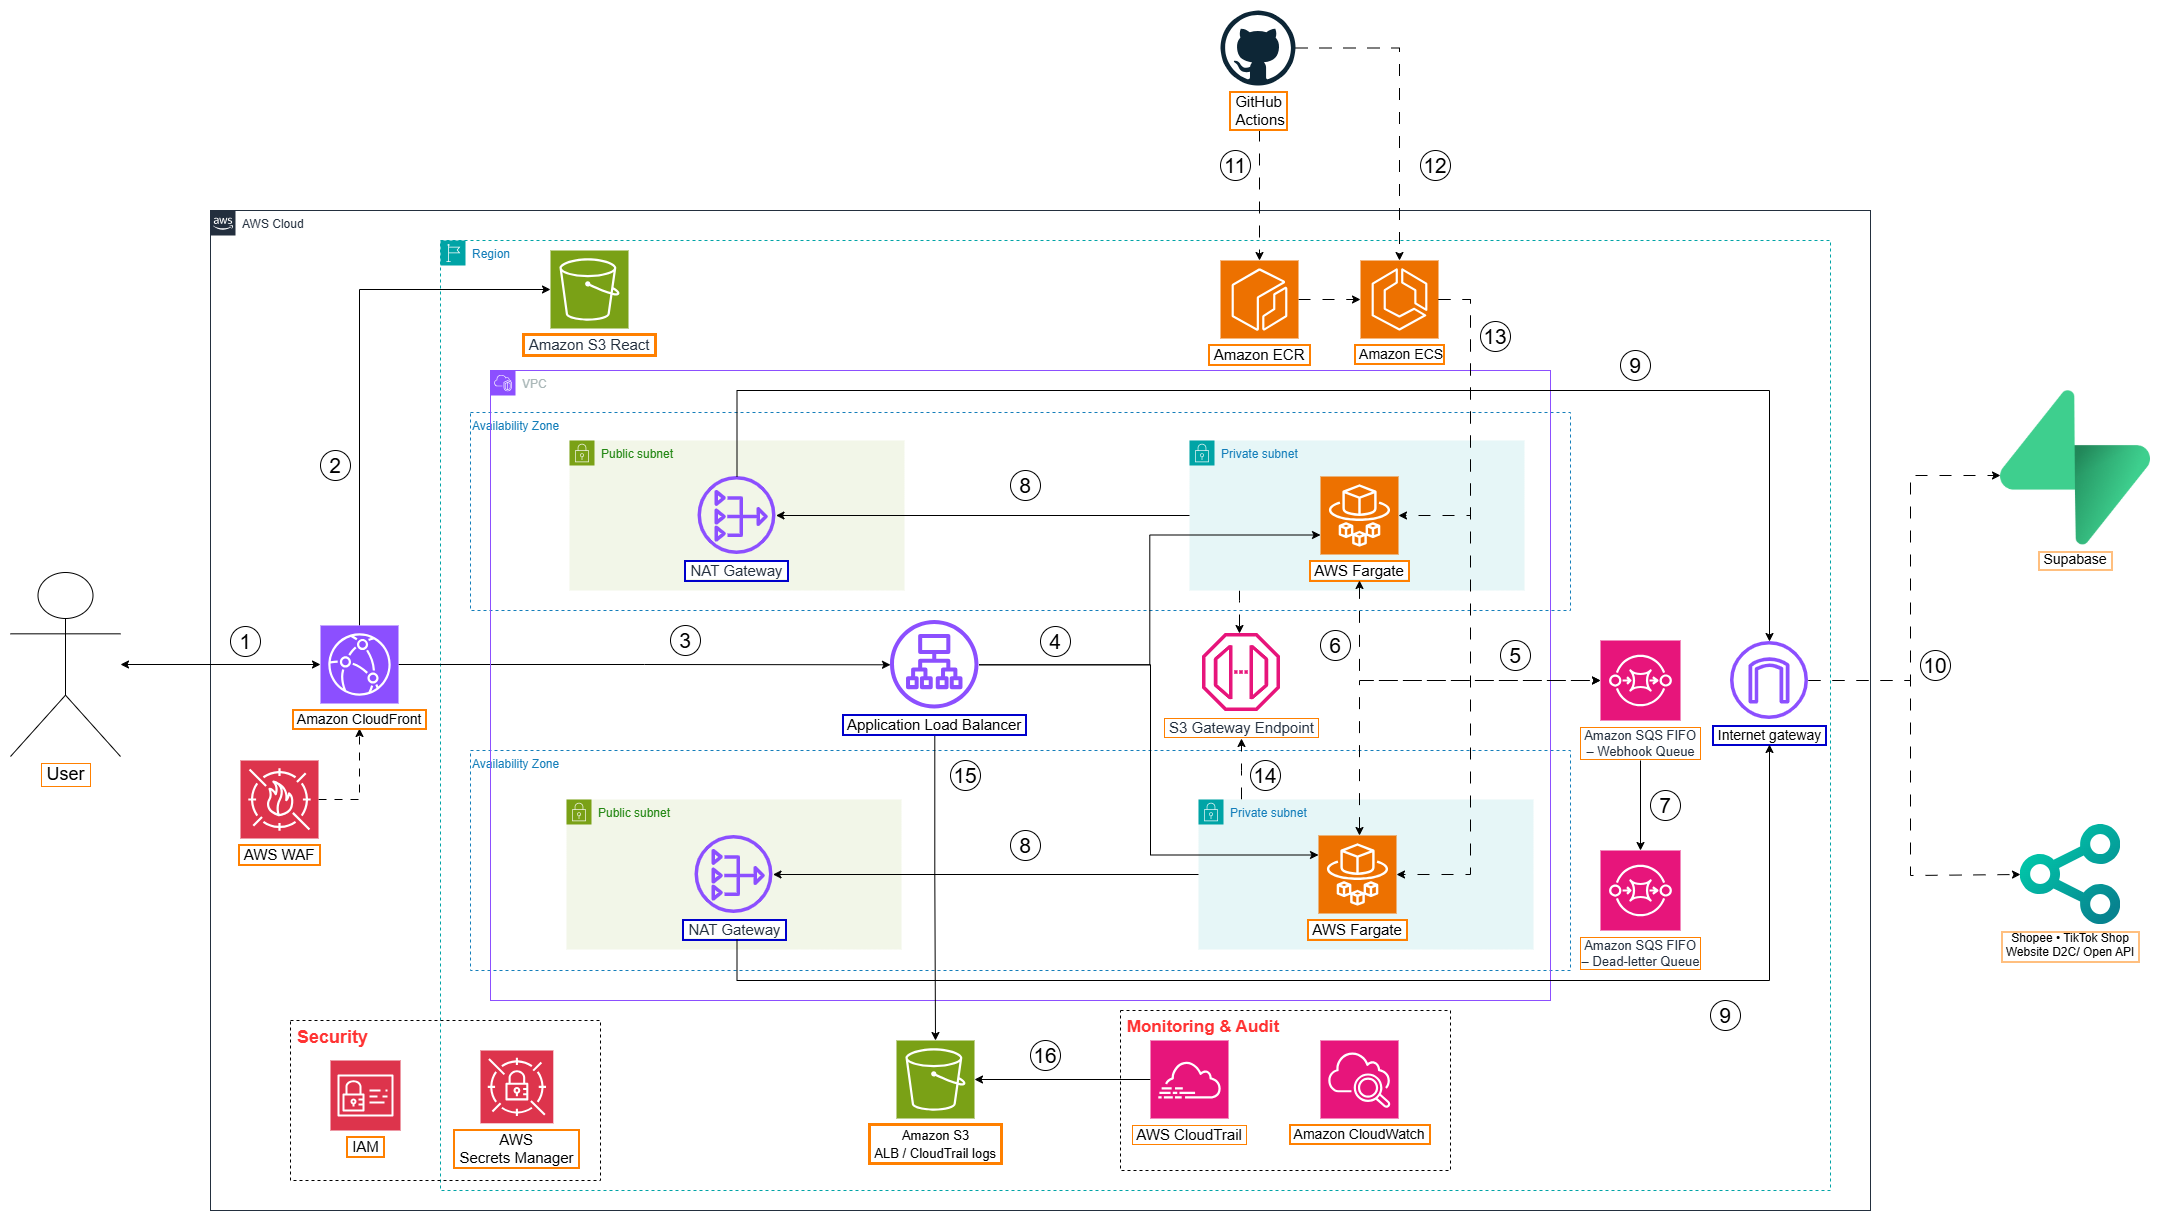
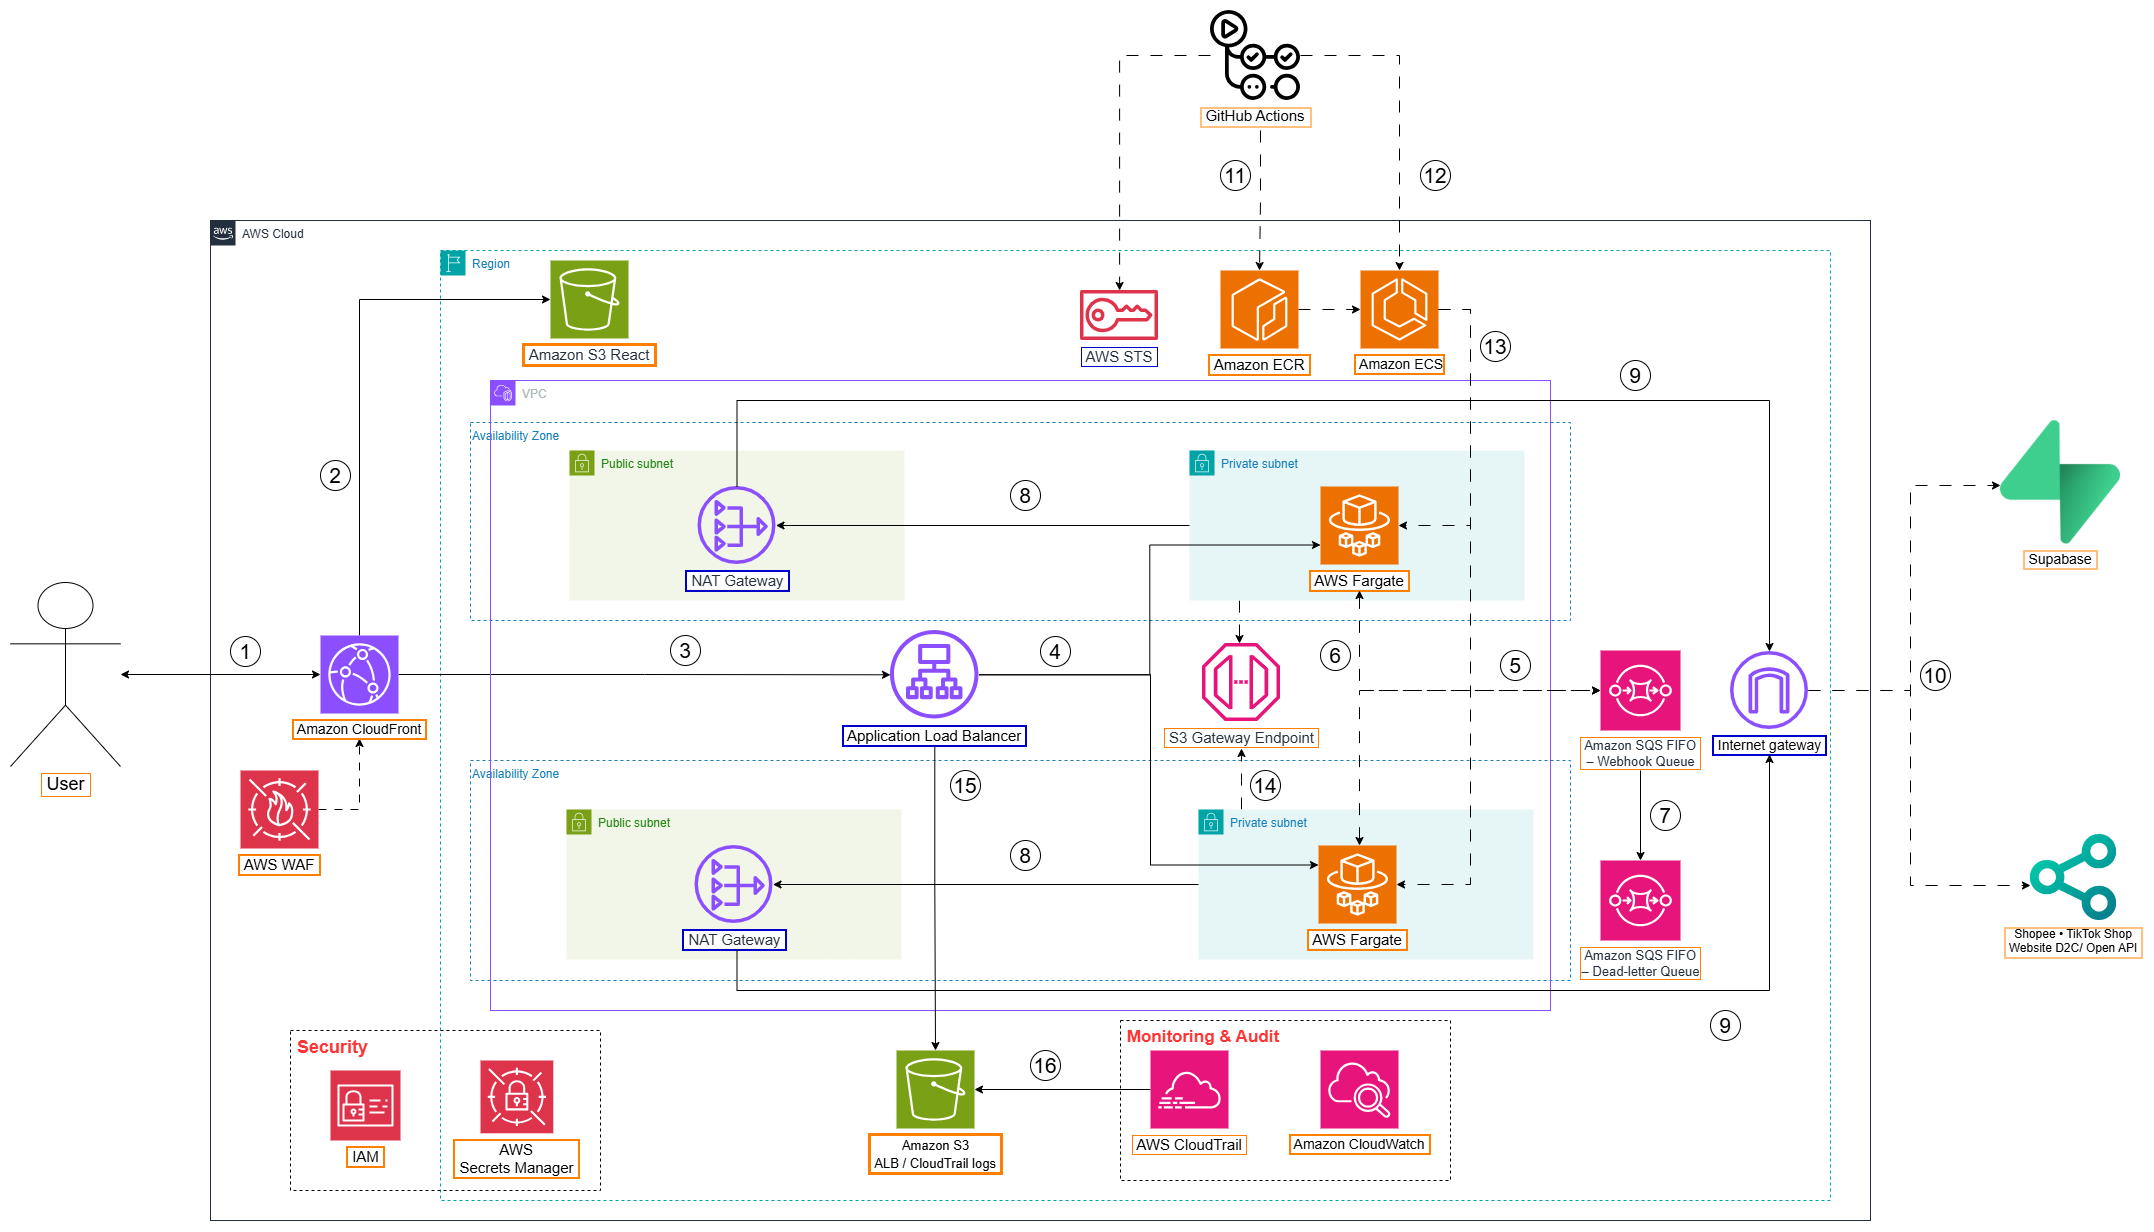
Clarify GitHub OIDC authentication flow
Document AWS STS token validation and temporary credentials in the proposal and workshop guides, update the architecture diagram, and add assumed-role verification to the Vietnamese deployment workflow example.

diff --git a/fcj-workshop-thanh-binh/content/2-Proposal/_index.vi.md b/fcj-workshop-thanh-binh/content/2-Proposal/_index.vi.md
@@ -52,12 +52,15 @@ Hệ thống tạo một góc nhìn vận hành thống nhất cho sản phẩm,
 | 15 | ALB ghi access log vào S3 audit bucket. |
 | 16 | CloudTrail ghi management event vào S3 audit bucket. |
 
+Đường nét đứt GitHub Actions → AWS STS thể hiện bước xác thực OIDC của CI/CD nên không đánh số trong luồng nghiệp vụ.
+
 *Dịch vụ AWS sử dụng*  
 - *Amazon S3 và Amazon CloudFront*: Lưu trữ và phân phối React/Vite build tĩnh.  
 - *AWS WAF*: Bảo vệ ứng dụng trước các request độc hại phổ biến.
 - *Application Load Balancer*: Định tuyến API tới ECS task khỏe.  
 - *Amazon ECS trên AWS Fargate*: Chạy container .NET 10 qua hai Availability Zone.  
 - *Amazon ECR*: Lưu Docker image backend có phiên bản từ GitHub CI.  
+- *AWS STS*: Xác thực GitHub OIDC token và cấp credential tạm thời cho GitHub Actions.
 - *Amazon SQS FIFO và Dead-letter Queue*: Đệm webhook tăng đột biến, giữ thứ tự theo nhóm và cô lập message xử lý lỗi.
 - *Amazon VPC, NAT Gateway và Internet Gateway*: Cô lập API task trong private subnet nhưng vẫn cho phép outbound có kiểm soát.  
 - *S3 Gateway Endpoint, AWS Secrets Manager và Amazon CloudWatch*: Định tuyến S3 riêng tư, quản lý secret và thu log/metric; ECR, Secrets Manager và CloudWatch Logs được truy cập qua NAT Gateway.  
@@ -72,7 +75,7 @@ Hệ thống tạo một góc nhìn vận hành thống nhất cho sản phẩm,
 - *Luồng hủy đơn*: Sự kiện `order.cancelled` cập nhật trạng thái, lưu lý do hủy và nhả tồn đang giữ nếu đơn chưa xuất kho. Idempotency ngăn việc hoàn tồn hai lần.
 - *Database và identity*: Supabase cung cấp PostgreSQL/Auth; dữ liệu nằm trong `public` schema của một tổ chức.  
 - *AWS runtime*: ECS task lấy secret an toàn, gửi log đến CloudWatch, đọc/ghi SQS bằng task role và đi ra Supabase/marketplace simulator qua NAT Gateway.
-- *CI/CD*: GitHub Actions dùng OIDC để nhận AWS credential ngắn hạn, đẩy image lên ECR, cập nhật ECS service, đồng bộ frontend lên S3 và tạo CloudFront invalidation.
+- *CI/CD*: GitHub Actions dùng OIDC để gọi AWS STS, nhận credential tạm thời, đẩy image lên ECR, cập nhật ECS service, đồng bộ frontend lên S3 và tạo CloudFront invalidation.
 
 ### 4. Triển khai kỹ thuật  
 *Các giai đoạn triển khai*  

diff --git a/fcj-workshop-thanh-binh/content/2-Proposal/_index.md b/fcj-workshop-thanh-binh/content/2-Proposal/_index.md
@@ -52,12 +52,15 @@ The current application runs locally with React/Vite, a .NET 10 API and Supabase
 | 15 | The ALB writes access logs to the S3 audit bucket. |
 | 16 | CloudTrail writes management events to the S3 audit bucket. |
 
+The unnumbered dashed line from GitHub Actions to AWS STS represents CI/CD OIDC authentication rather than a business flow.
+
 ### AWS Services Used
 - **Amazon S3 and Amazon CloudFront**: Store and distribute the static React/Vite build.
 - **AWS WAF**: Protects the application from common malicious requests.
 - **Application Load Balancer**: Routes API traffic to healthy ECS tasks.
 - **Amazon ECS on AWS Fargate**: Runs the containerized .NET 10 API across two Availability Zones.
 - **Amazon ECR**: Stores versioned backend container images built from GitHub CI.
+- **AWS STS**: Validates the GitHub OIDC token and issues temporary credentials to GitHub Actions.
 - **Amazon SQS FIFO and a dead-letter queue**: Buffer webhook bursts, preserve ordering within a message group, and isolate failed messages.
 - **Amazon VPC, NAT Gateway and Internet Gateway**: Isolate API tasks in private subnets while allowing controlled outbound access.
 - **S3 Gateway Endpoint, AWS Secrets Manager and Amazon CloudWatch**: Route S3 traffic privately, manage secrets and collect logs/metrics; ECR, Secrets Manager and CloudWatch Logs are reached through NAT Gateways.
@@ -72,7 +75,7 @@ The current application runs locally with React/Vite, a .NET 10 API and Supabase
 - **Order cancellation workflow**: An `order.cancelled` event records the reason, changes the order state, and releases reserved inventory when the order has not been dispatched. Idempotency prevents stock from being released twice.
 - **Database and identity**: Supabase provides PostgreSQL and Auth; the database uses a single-organization `public` schema.
 - **AWS runtime**: ECS tasks obtain secrets safely, send logs to CloudWatch, access SQS through the task role, and reach Supabase/marketplace simulators through NAT Gateways.
-- **CI/CD**: GitHub Actions uses OIDC for short-lived AWS credentials, pushes images to ECR, updates the ECS service, syncs the frontend to S3, and creates a CloudFront invalidation.
+- **CI/CD**: GitHub Actions uses OIDC to call AWS STS, receives temporary credentials, pushes images to ECR, updates the ECS service, syncs the frontend to S3, and creates a CloudFront invalidation.
 
 ### 4. Technical Implementation
 **Implementation Phases**

diff --git a/fcj-workshop-thanh-binh/content/5-Workshop/5.5-CICD/_index.vi.md b/fcj-workshop-thanh-binh/content/5-Workshop/5.5-CICD/_index.vi.md
@@ -22,7 +22,7 @@ Audience: sts.amazonaws.com
 
 ![Cấu hình GitHub OIDC provider](/images/5-Workshop/nexusoms/5.5-CICD/github-actions/2-configure-github-oidc-provider.png)
 
-
+AWS STS kiểm tra OIDC token theo trust policy của IAM role. Nếu `aud` và `sub` hợp lệ, STS trả về credential tạm thời cho workflow. Không tạo tài nguyên STS riêng.
 
 ## 2. Tạo IAM role cho GitHub Actions
 
@@ -324,6 +324,9 @@ jobs:
           role-to-assume: ${{ secrets.AWS_ROLE_TO_ASSUME }}
           aws-region: ${{ vars.AWS_REGION }}
 
+      - name: Verify assumed AWS role
+        run: aws sts get-caller-identity
+
       - name: Login to Amazon ECR
         id: login-ecr
         uses: aws-actions/amazon-ecr-login@v2
@@ -470,6 +473,8 @@ Kiểm tra:
 4. Frontend được đồng bộ vào S3.
 5. CloudFront invalidation có trạng thái `Completed`.
 6. Website đăng nhập và gọi API thành công.
+
+Trong job `deploy-backend`, bước **Verify assumed AWS role** phải trả về đúng AWS Account ID và ARN của `nexusoms-demo-github-actions-role`.
 
 Job Docker build hiển thị màu xám trên lần chạy `main` là **skipped** theo điều kiện, không phải lỗi. Nếu có job đỏ, mở đúng job và đọc bước đầu tiên thất bại trước khi chạy lại.
 

diff --git a/fcj-workshop-thanh-binh/content/5-Workshop/5.1-Workshop-overview/_index.vi.md b/fcj-workshop-thanh-binh/content/5-Workshop/5.1-Workshop-overview/_index.vi.md
@@ -7,7 +7,7 @@ chapter: false
 
 NexusOMS sử dụng CloudFront làm điểm truy cập công khai, S3 lưu frontend React và ALB chuyển tiếp `/api/*` đến ECS Fargate trong private subnet. API đưa webhook vào SQS FIFO; worker chạy trong ECS lấy message để xử lý. Message thất bại quá ba lần được chuyển sang dead-letter queue. Supabase cung cấp PostgreSQL và Authentication.
 
-GitHub Actions kiểm tra source code, đẩy backend image lên ECR, cập nhật ECS service, build frontend, đồng bộ lên S3 và tạo CloudFront invalidation.
+GitHub Actions gửi OIDC token đến AWS STS để assume IAM role và nhận credential tạm thời. Workflow dùng credential này để đẩy backend image lên ECR, cập nhật ECS service, build frontend, đồng bộ lên S3 và tạo CloudFront invalidation.
 
 ![NexusOMS business flow architecture](/images/2-Proposal/noxus-aws-architect-1.png)
 

diff --git a/fcj-workshop-thanh-binh/content/5-Workshop/5.5-CICD/_index.md b/fcj-workshop-thanh-binh/content/5-Workshop/5.5-CICD/_index.md
@@ -22,6 +22,8 @@ Audience: sts.amazonaws.com
 
 ![Configure the GitHub OIDC provider](/images/5-Workshop/nexusoms/5.5-CICD/github-actions/2-configure-github-oidc-provider.png)
 
+AWS STS validates the OIDC token against the IAM role trust policy. When `aud` and `sub` match, STS returns temporary credentials to the workflow. Do not create a separate STS resource.
+
 ## 2. Create the GitHub Actions role
 
 IAM → **Roles → Create role → Web identity**:
@@ -144,6 +146,8 @@ Image tag: <sha>-<run_id>-<run_attempt>
 Task definition source: the revision currently used by the ECS service
 CloudFront: wait until the invalidation is completed
 ```
+
+The **Verify assumed AWS role** step runs `aws sts get-caller-identity`. It must return the intended AWS account and the `nexusoms-demo-github-actions-role` ARN.
 
 ![Open the deployment workflow](/images/5-Workshop/nexusoms/5.5-CICD/github-actions/13-edit-deployment-workflow.png)
 

diff --git a/fcj-workshop-thanh-binh/content/5-Workshop/5.1-Workshop-overview/_index.md b/fcj-workshop-thanh-binh/content/5-Workshop/5.1-Workshop-overview/_index.md
@@ -7,7 +7,7 @@ chapter: false
 
 NexusOMS uses CloudFront as the public entry point, S3 for the React frontend, and an ALB to route `/api/*` to ECS Fargate tasks in private subnets. The API sends webhooks to an SQS FIFO queue and an ECS worker processes each message. Messages that fail more than three times move to a dead-letter queue. Supabase provides PostgreSQL and authentication.
 
-GitHub Actions validates the source, pushes the backend image to ECR, updates the ECS service, builds the frontend, synchronizes it to S3, and creates a CloudFront invalidation.
+GitHub Actions sends an OIDC token to AWS STS to assume the IAM role and receive temporary credentials. The workflow uses these credentials to push the backend image to ECR, update the ECS service, build the frontend, synchronize it to S3, and create a CloudFront invalidation.
 
 ![NexusOMS business flow architecture](/images/2-Proposal/noxus-aws-architect-1.png)
 
